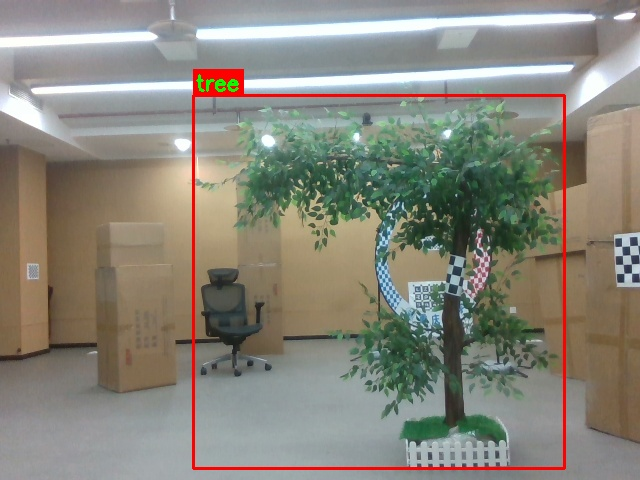
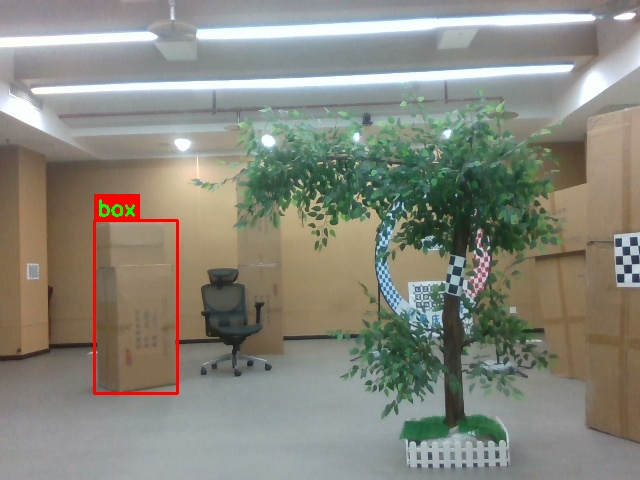
v0.41

Changed region(s): [[0.125, 0.125, 0.9062, 1.0]]

diff --git a/test.py b/test.py
@@ -80,23 +80,6 @@ def visualize_bbox(item):
 
 if __name__ == "__main__":
     # ---- Paste your data here ----
-    item = {
-        "id": 0,
-        "label": "tree",
-        "depth": 3691.39990234375,
-        "center": [0.9300000071525574, -0.2199999988079071, 4.642205715179443],
-        "bbox3dfront": [
-            [-1.2000000476837158, -1.2899999618530273, 3.690000057220459],
-            [ 2.369999885559082 ,  1.8600000143051147, 3.690000057220459],
-            [ 2.369999885559082 , -1.2899999618530273, 3.690000057220459],
-            [-1.2000000476837158,  1.8600000143051147, 3.690000057220459],
-        ],
-        "bbox3dback": [
-            [-1.2000000476837158, -1.2899999618530273, 5.594411849975586],
-            [ 2.369999885559082 ,  1.8600000143051147, 5.594411849975586],
-            [ 2.369999885559082 , -1.2899999618530273, 5.594411849975586],
-            [-1.2000000476837158,  1.8600000143051147, 5.594411849975586],
-        ],
-    }
+    item = {'id': 0, 'label': 'chair', 'depth': 8992.6, 'center': [-2.13, 1.81, 9.56], 'bbox3dfront': [[-2.74, 0.85, 8.99], [-1.29, 3.3, 8.99], [-1.29, 0.85, 8.99], [-2.74, 3.3, 8.99]], 'bbox3dback': [[-2.74, 0.85, 10.13], [-1.29, 3.3, 10.13], [-1.29, 0.85, 10.13], [-2.74, 3.3, 10.13]]}
 
     visualize_bbox(item)

diff --git a/vls.py b/vls.py
@@ -36,7 +36,7 @@ def getCtrlCmd():
     """
     # 在实际应用中，这里可以从用户输入、配置文件或其他来源获取控制命令
     # 这里返回一个示例命令
-    return "fly to the tree."
+    return "fly to the box on the left."
 
 
 def getCameraData():
@@ -200,6 +200,8 @@ def get3DTargetModel(rgb_image, detect_result, depth_data):
                 object_dict_for3d['npoints'] = random_points
                 
                 object_dict_for3d_list.append(object_dict_for3d)
+                
+    ImageUtils.visualize_target3d_results(rgb_image, object_dict_for3d_list)
     
     # 对物体列表进行3d空间建模
     obj3dmodel_list = []
